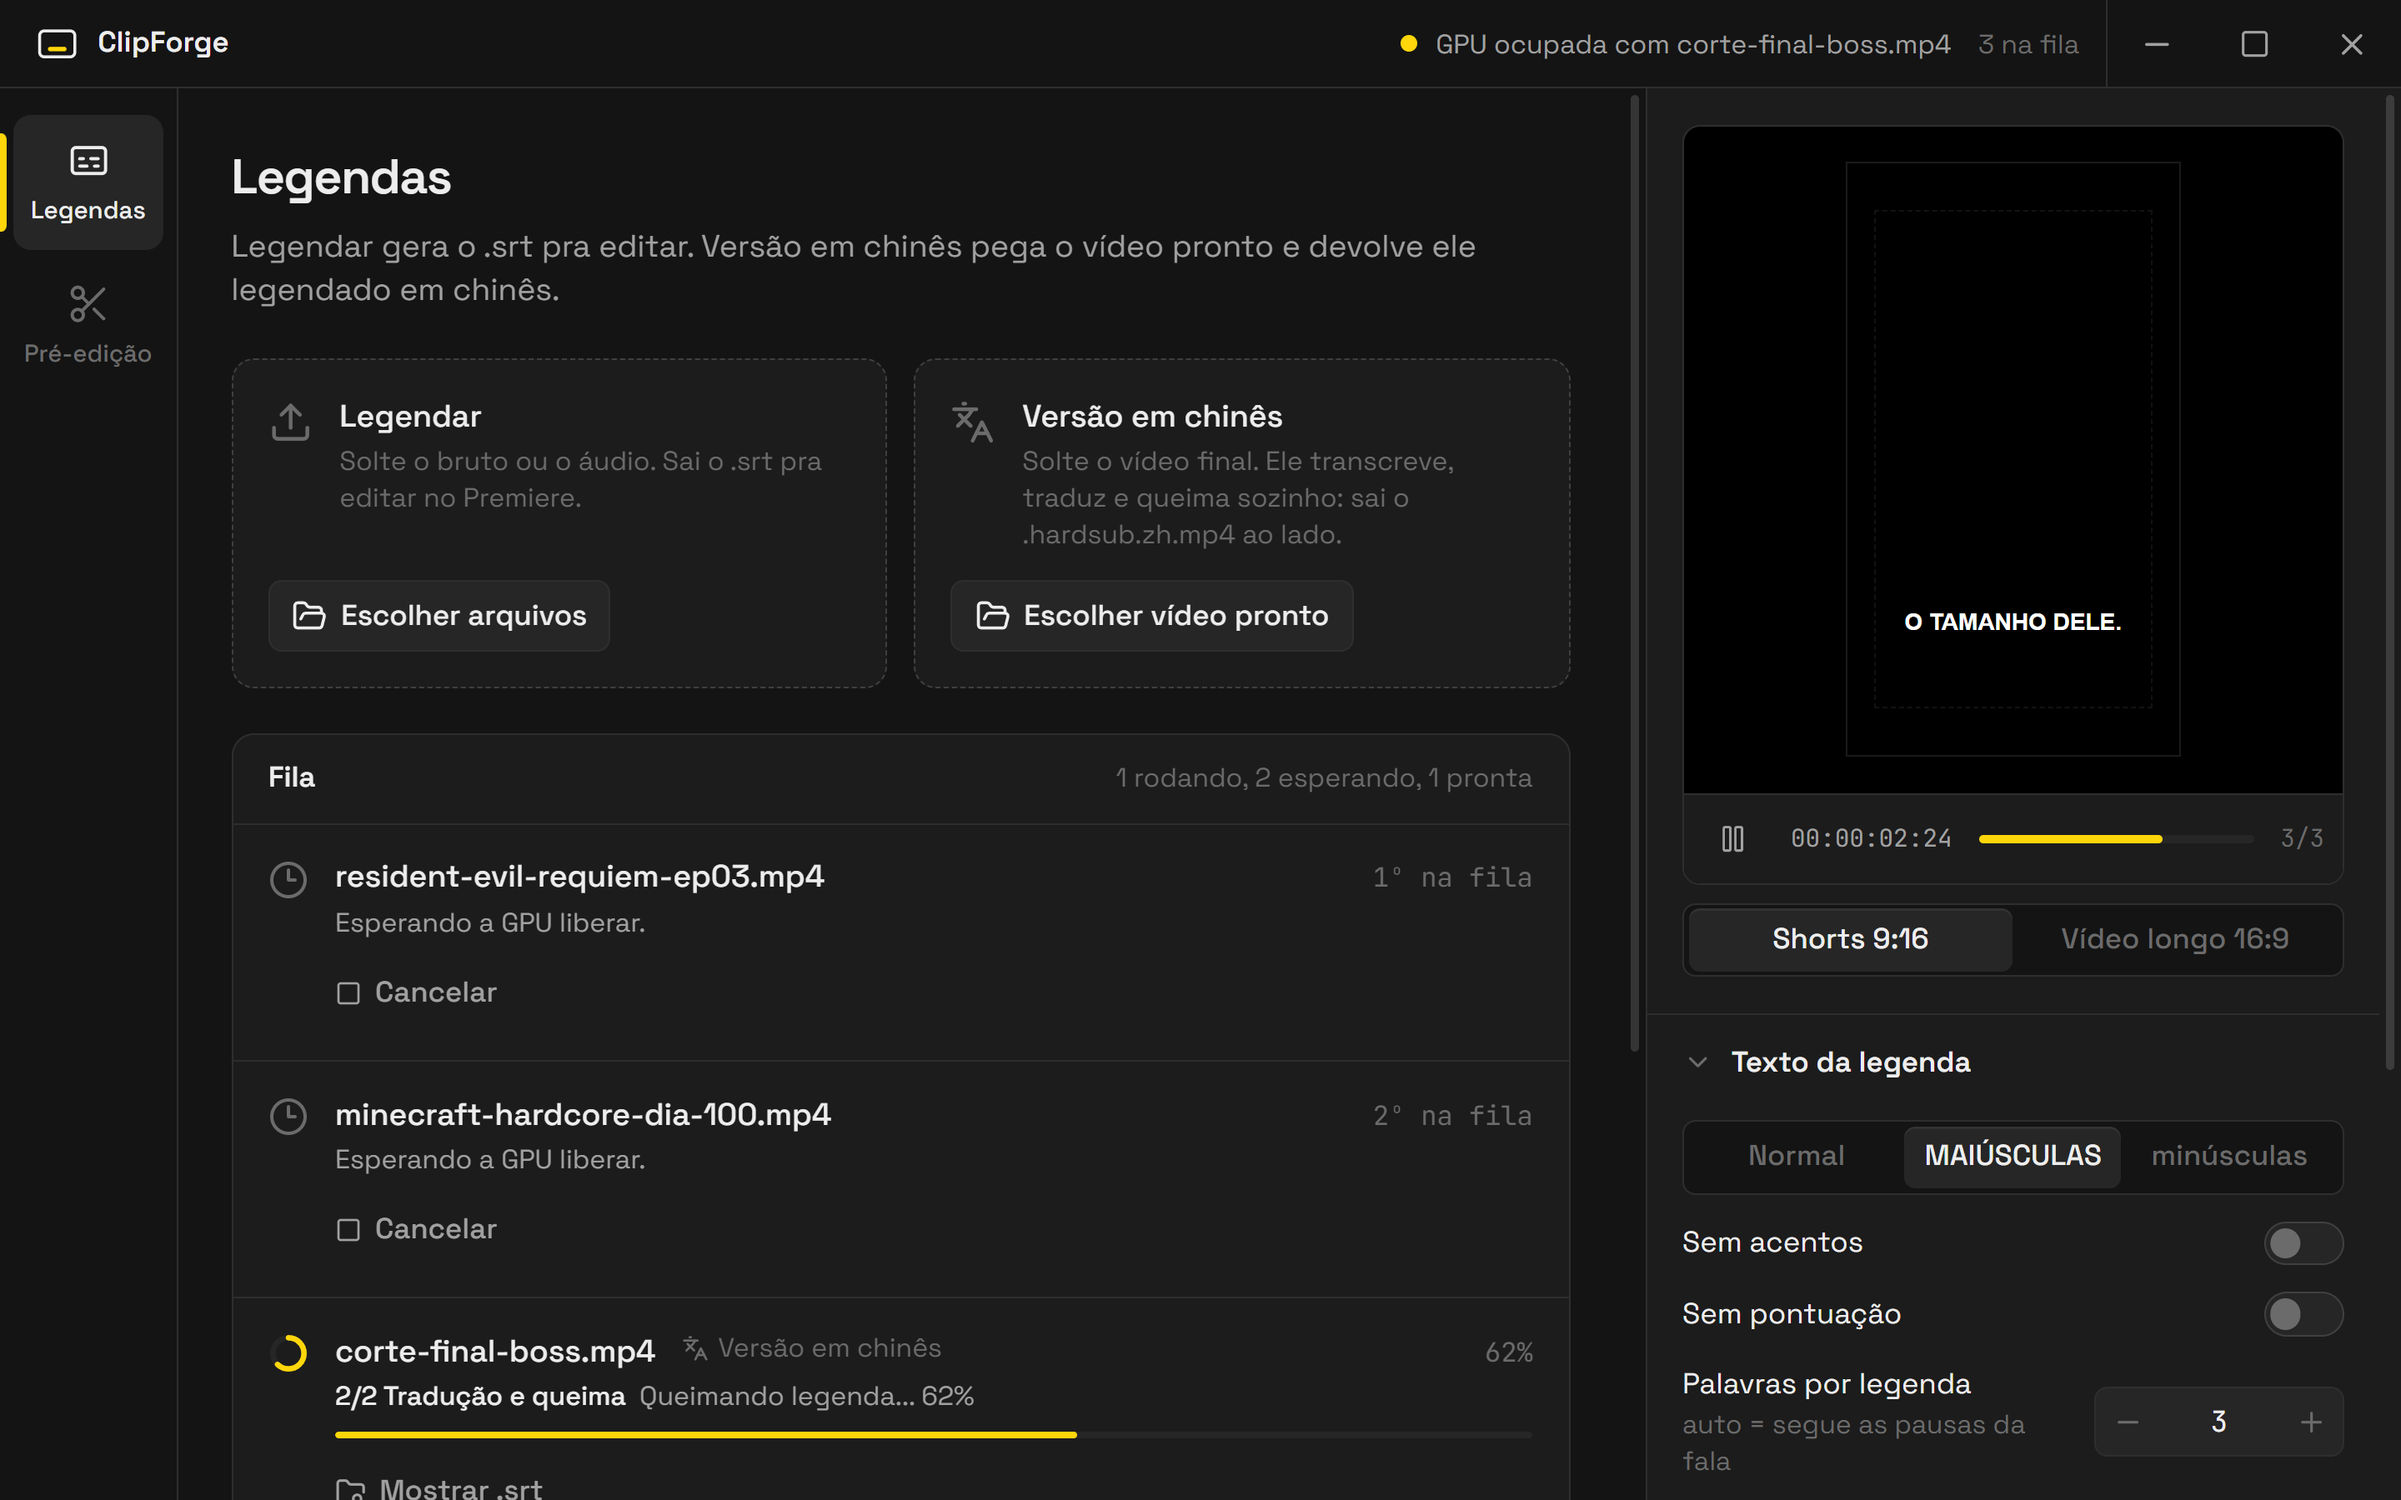
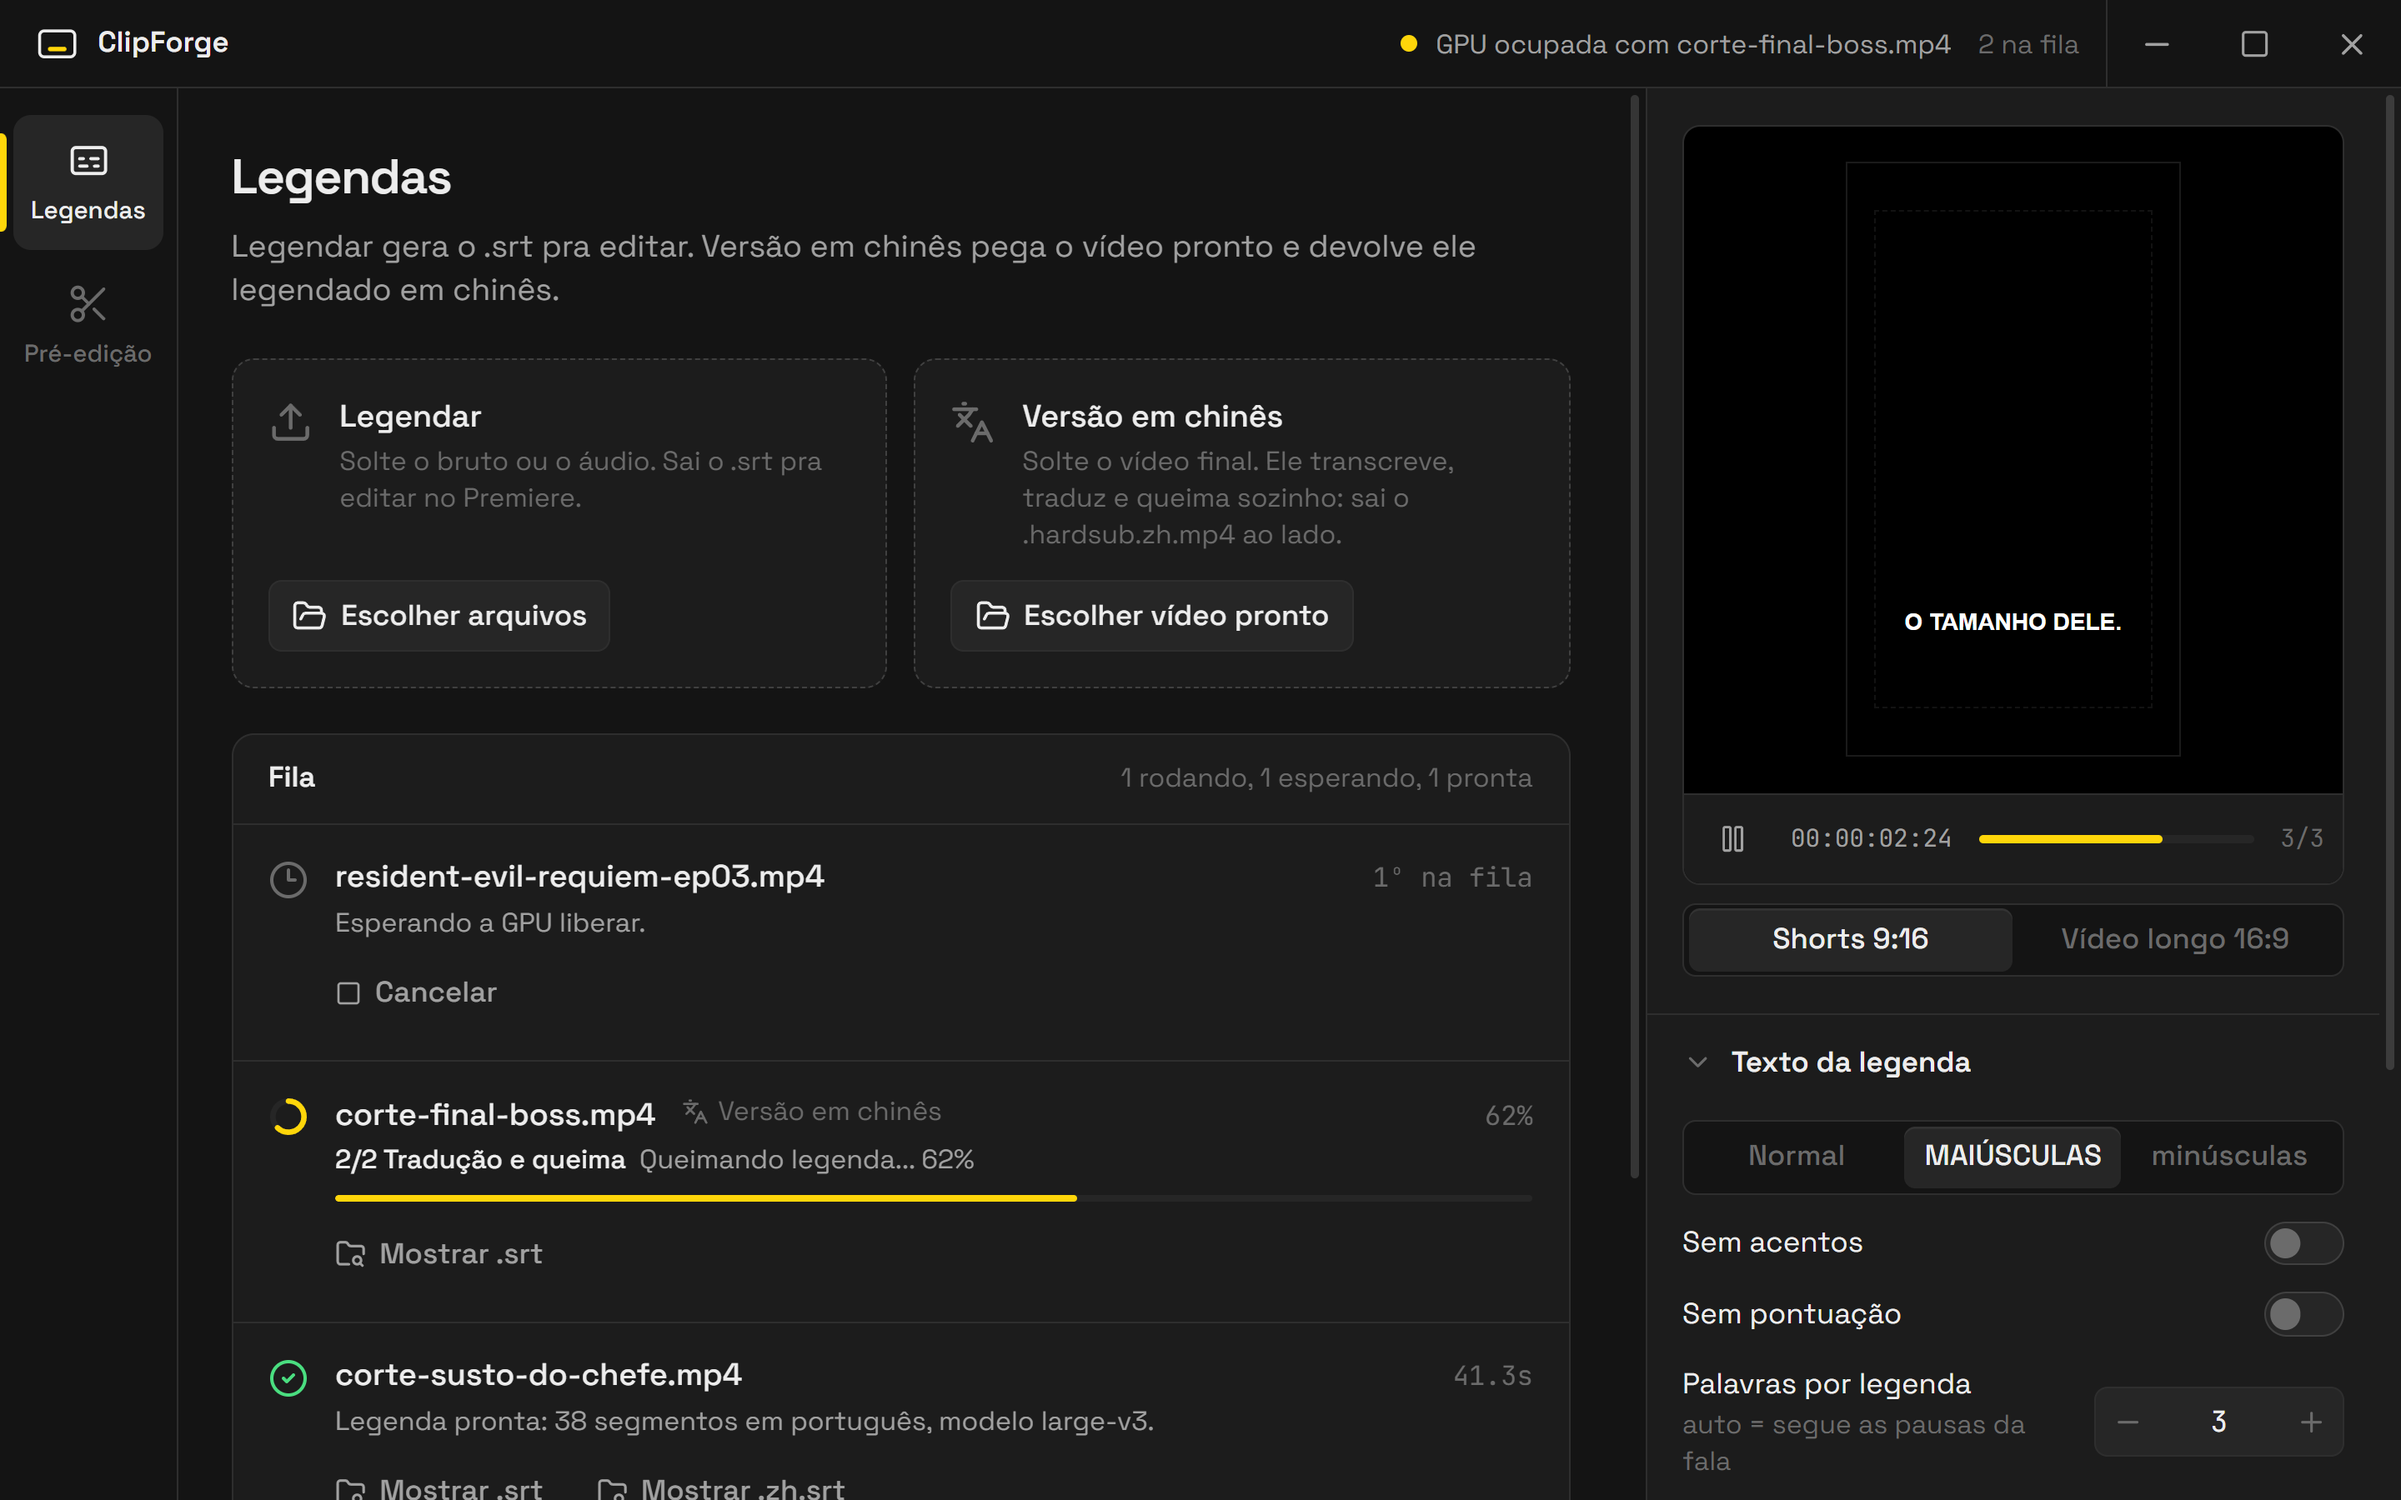
fix: demo com uma transcricao na fila pra versao em chines caber na tela

diff --git a/src/demo/installDemo.ts b/src/demo/installDemo.ts
@@ -135,24 +135,18 @@ function seedSubtitleQueue() {
     progress: 62,
   })
 
-  // A fila de GPU roda um por vez: com a queima em chines rodando, as transcricoes esperam.
-  const waiting: Array<[string, string, number]> = [
-    ['demo-queued-2', 'minecraft-hardcore-dia-100.mp4', 2],
-    ['demo-queued-1', 'resident-evil-requiem-ep03.mp4', 1],
-  ]
-  for (const [taskId, fileName, queuePosition] of waiting) {
-    store.upsertSubtitleProgress({
-      ...common,
-      taskId,
-      filePath: `D:\\Gravacoes\\${fileName}`,
-      fileName,
-      status: 'queued',
-      stage: 'queued',
-      message: 'Aguardando a GPU.',
-      progress: null,
-      queuePosition,
-    })
-  }
+  // A fila de GPU roda um por vez: com a queima em chines rodando, a transcricao espera.
+  store.upsertSubtitleProgress({
+    ...common,
+    taskId: 'demo-queued',
+    filePath: 'D:\\Gravacoes\\resident-evil-requiem-ep03.mp4',
+    fileName: 'resident-evil-requiem-ep03.mp4',
+    status: 'queued',
+    stage: 'queued',
+    message: 'Aguardando a GPU.',
+    progress: null,
+    queuePosition: 1,
+  })
 }
 
 function seedPreEditQueue() {
@@ -200,8 +194,8 @@ function seedPreEditQueue() {
     stage: 'queued',
     message: 'Aguardando a GPU.',
     progress: null,
-    // Mesma fila de GPU das legendas: espera a queima e as duas transcricoes.
-    queuePosition: 3,
+    // Mesma fila de GPU das legendas: espera a queima e a transcricao.
+    queuePosition: 2,
   })
 }
 
